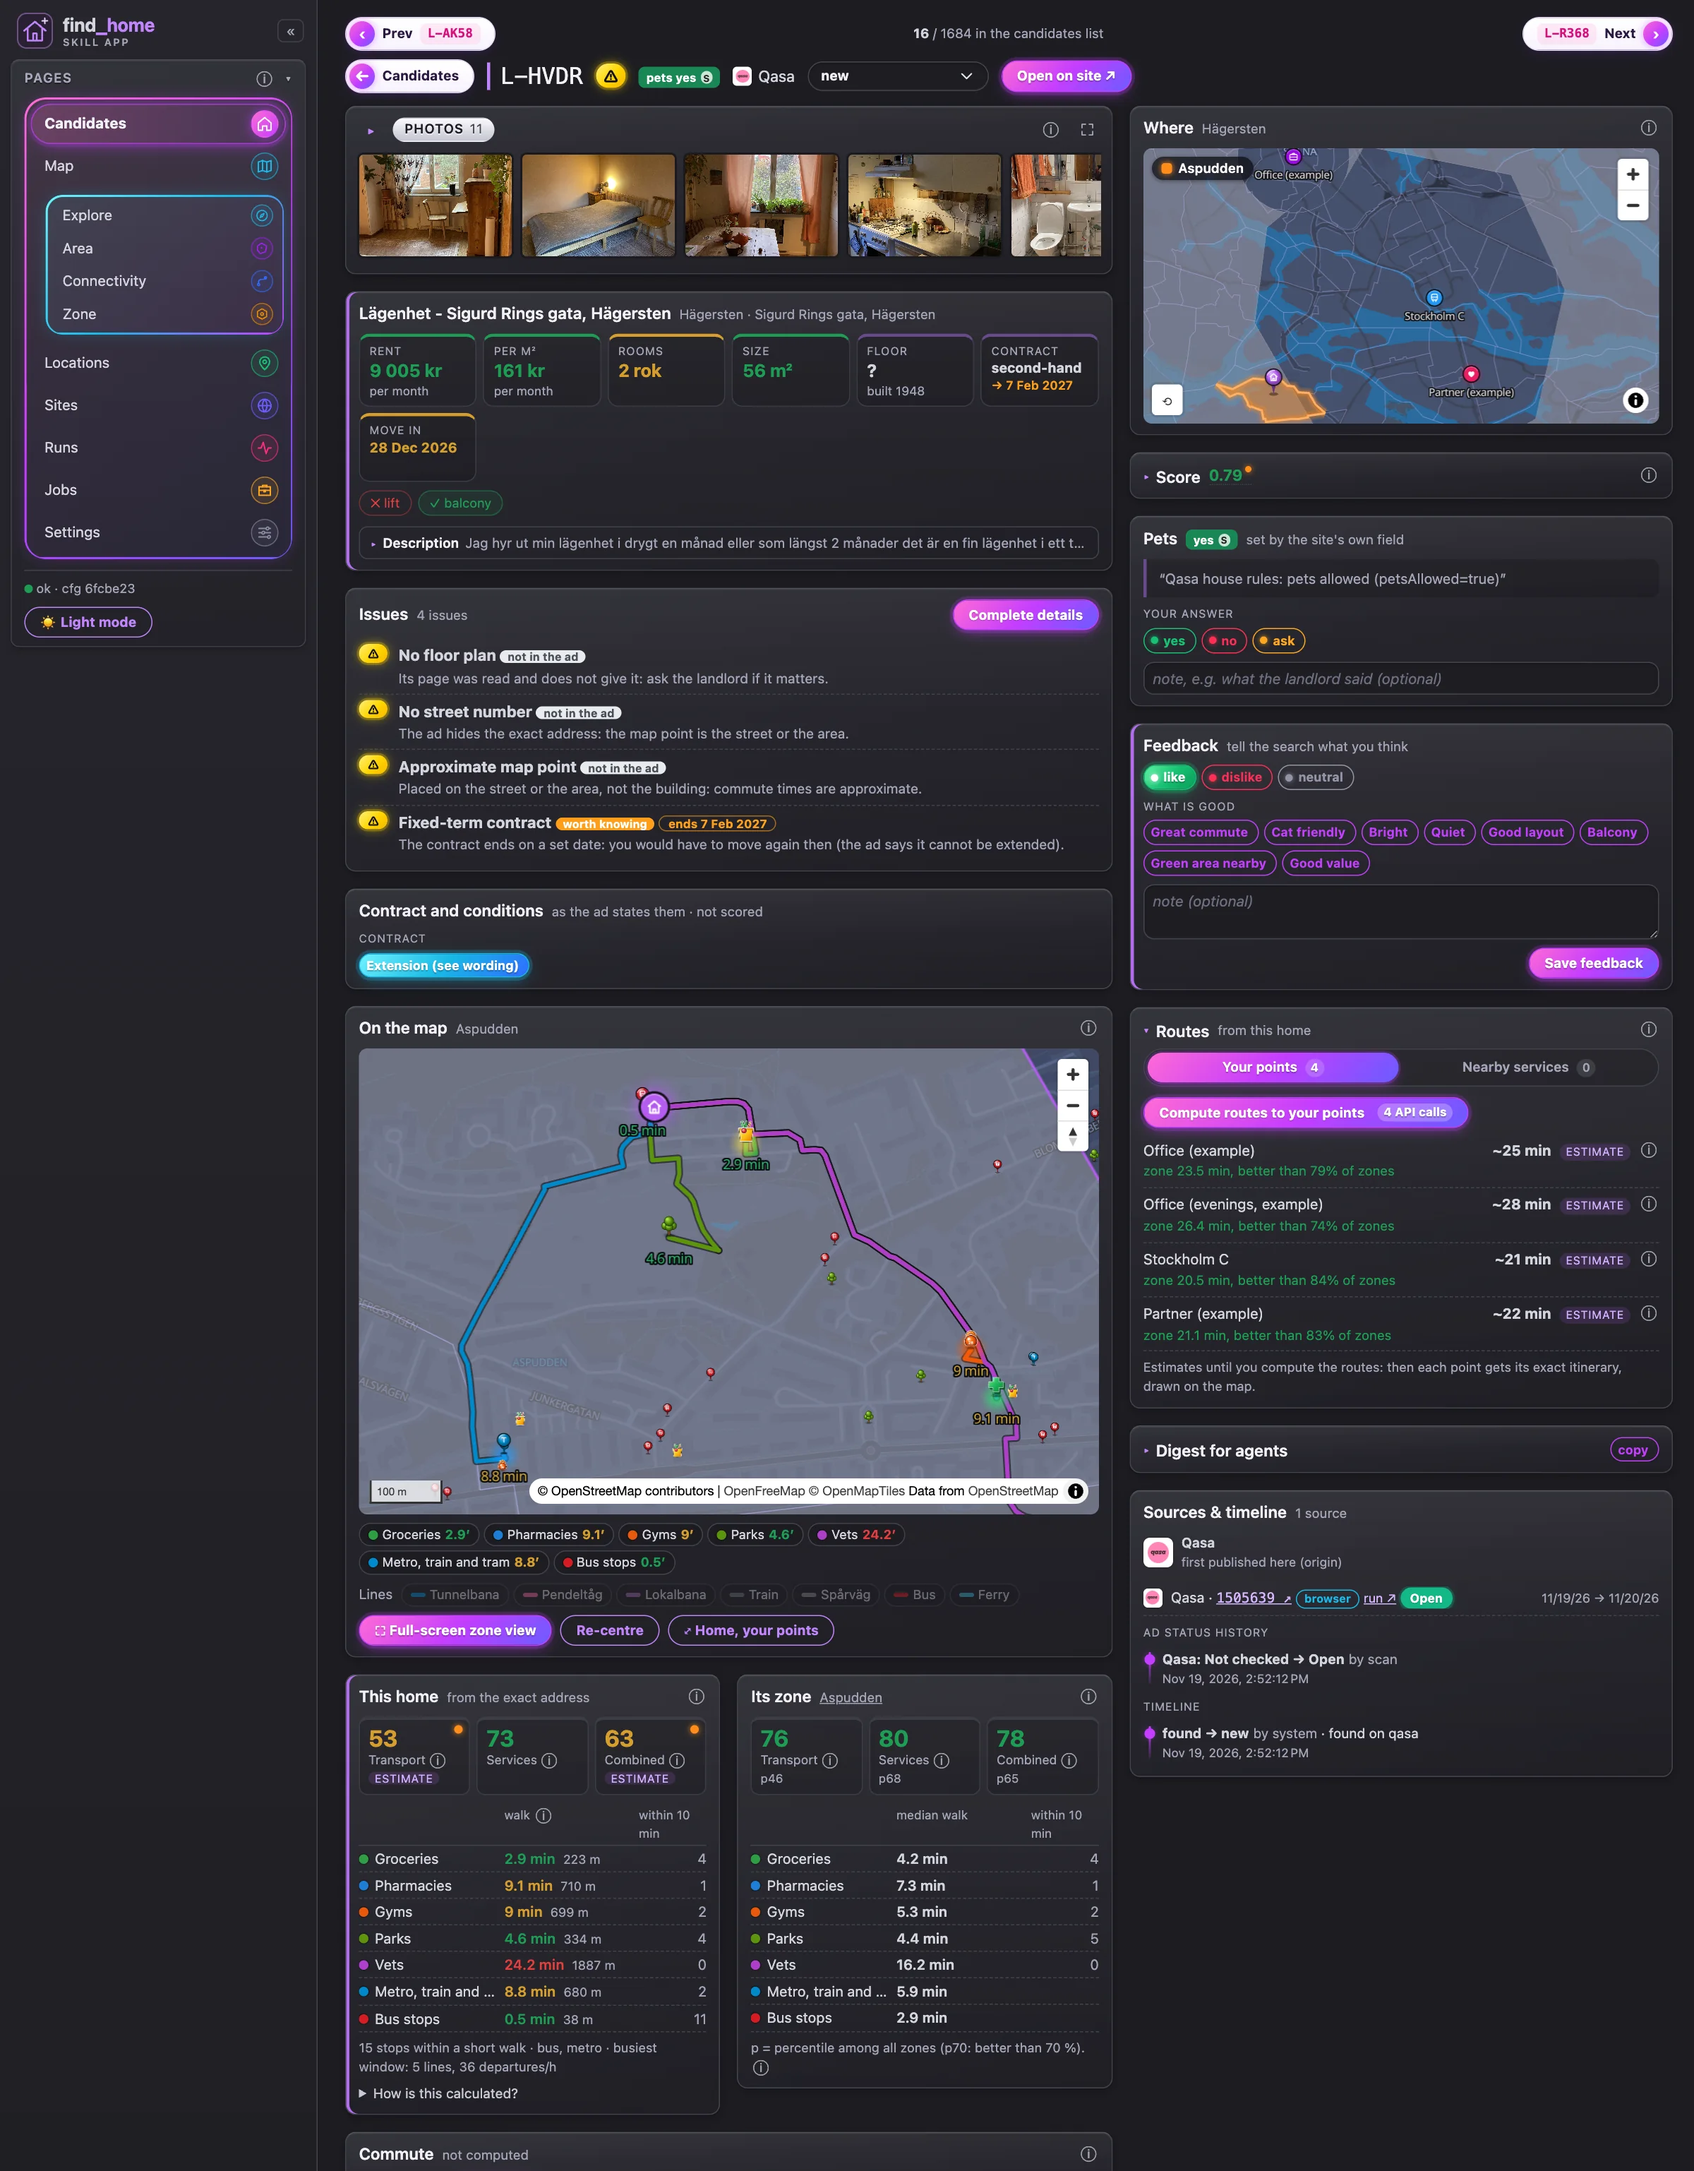
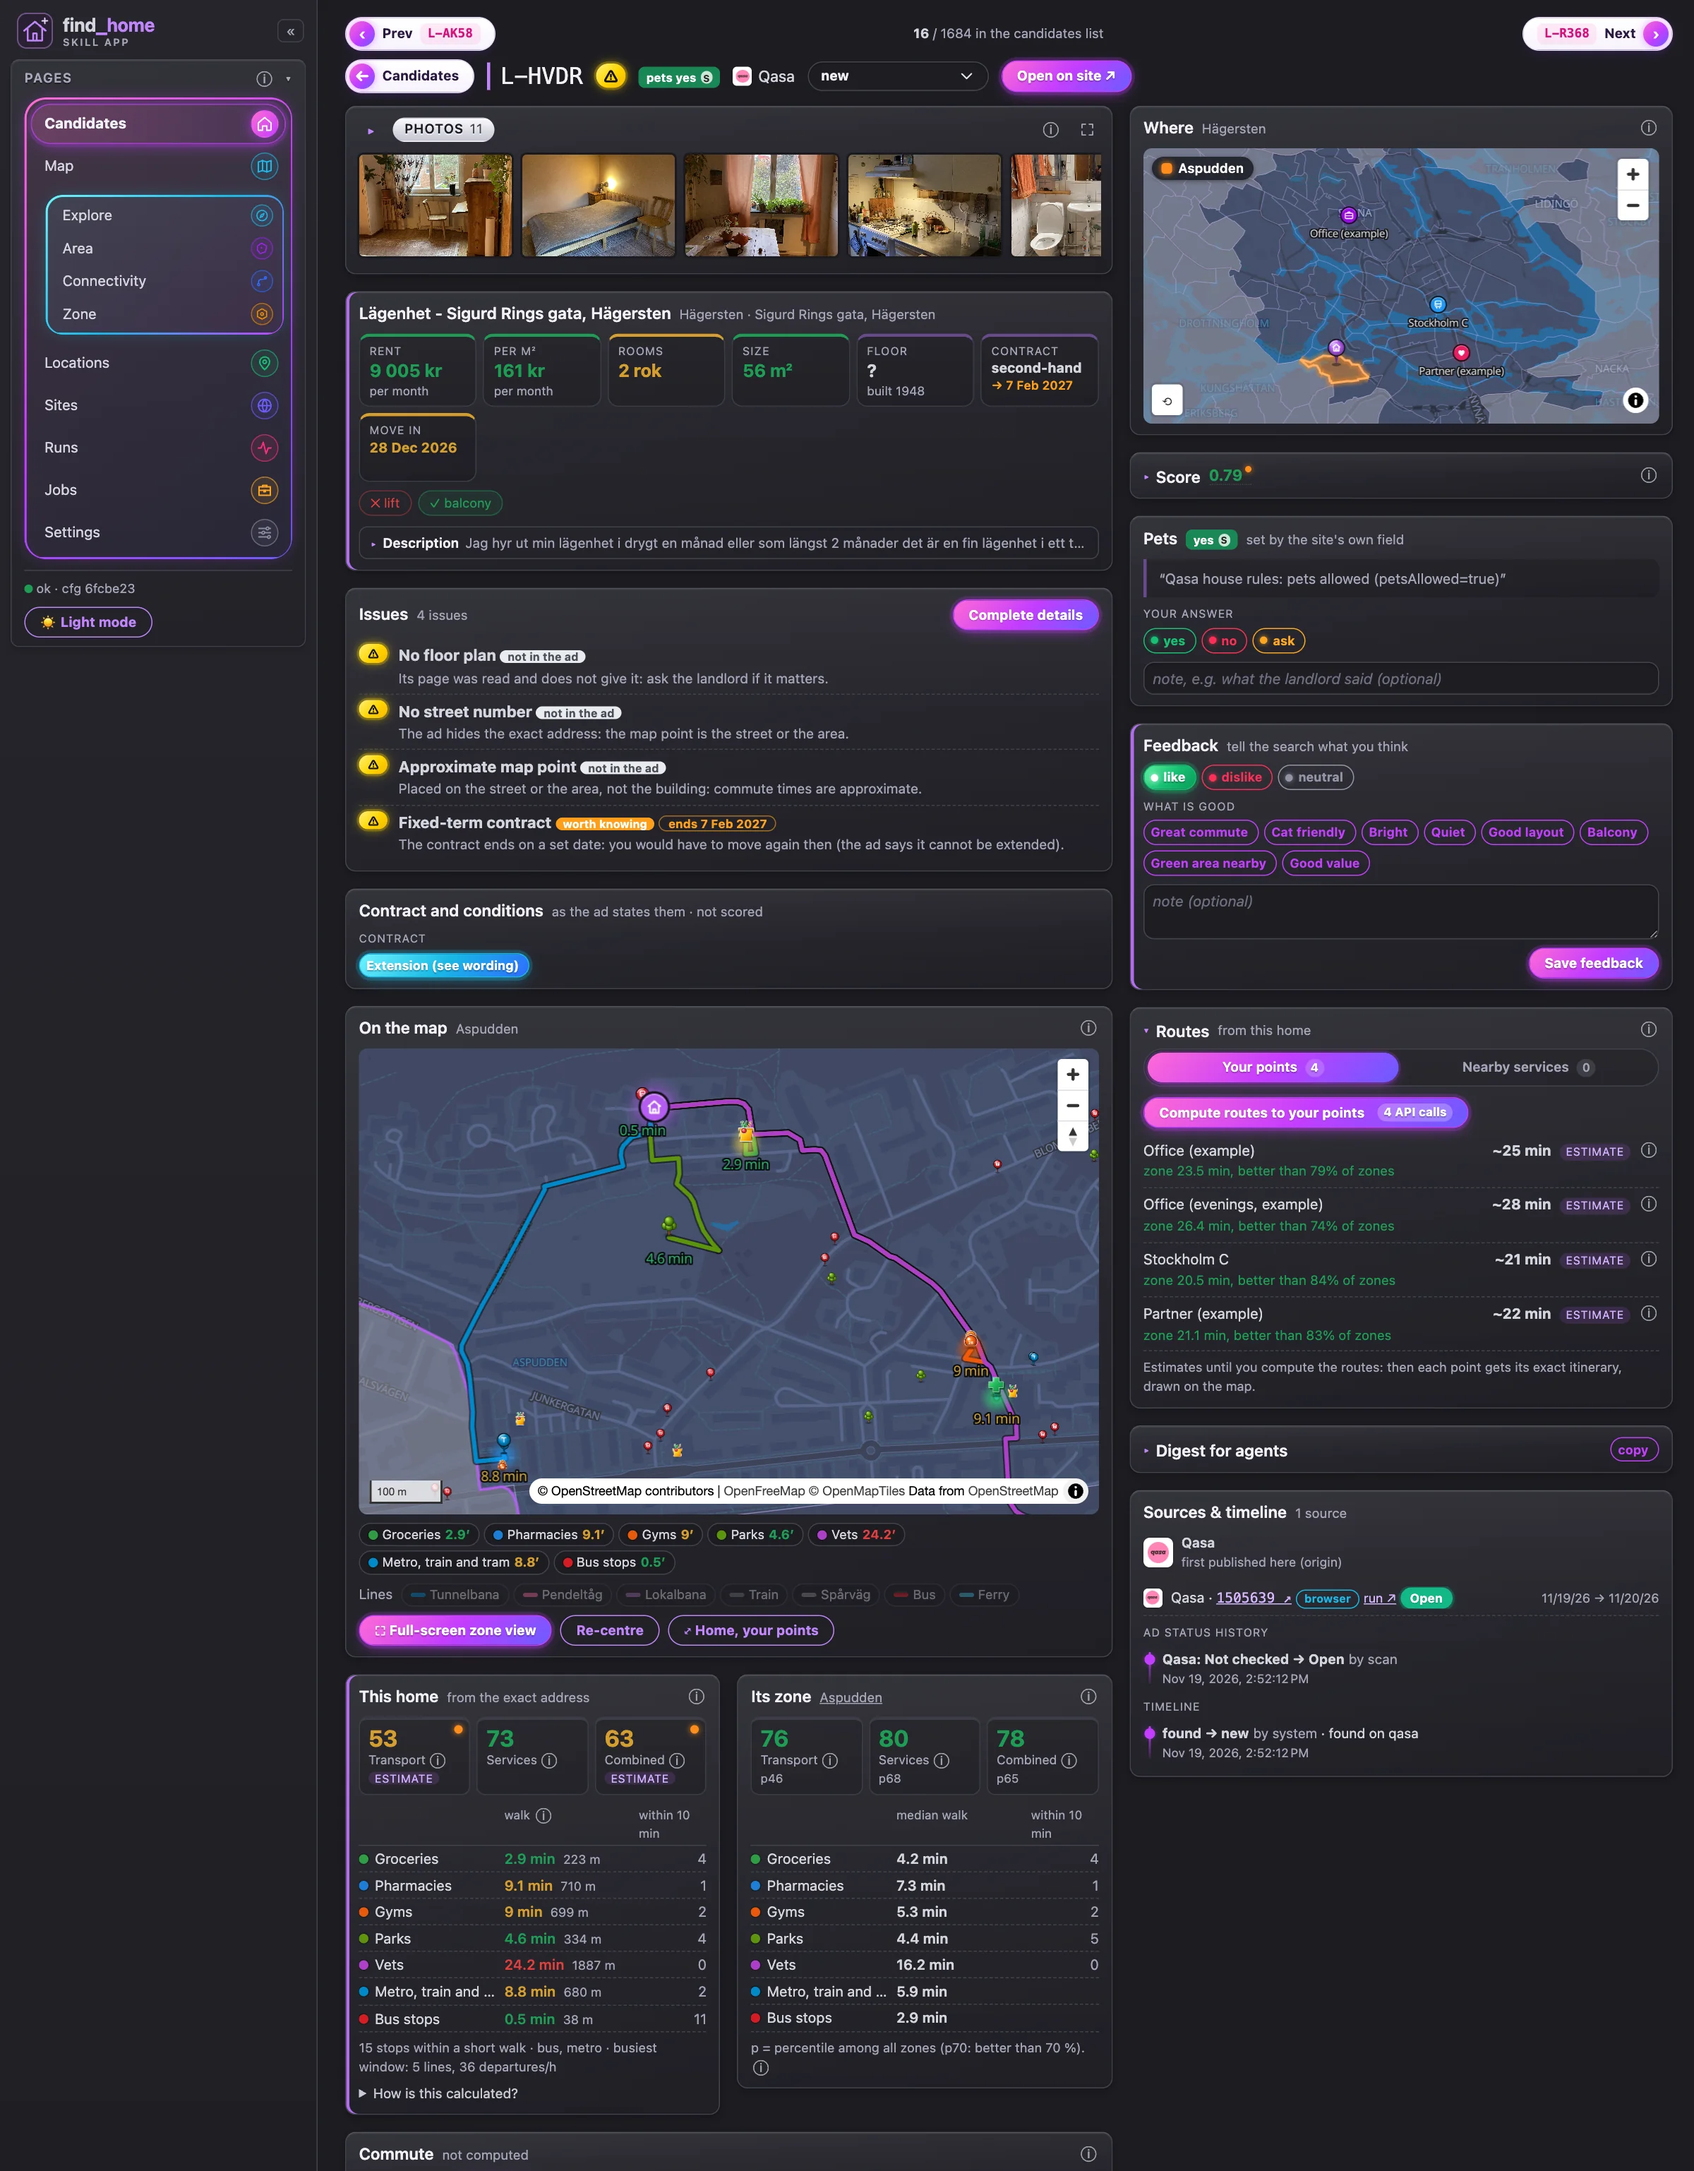
docs(readme): every zone coloured in Connectivity, the Reach search area in Area, the home card from a middle row

Changed region(s): [[0.1875, 0.4683, 0.6562, 0.718], [0.7188, 0.0624, 0.9688, 0.2185]]

diff --git a/README.md b/README.md
@@ -53,7 +53,8 @@ listings; the app stores everything, scores it, puts it on a map and gives you t
 
 The screenshots use public listing data from the rental sites. Your own places and search area are personal and
 never committed: in these images they come from the repo's example files (`Office (example)`, `Partner (example)`,
-a made-up search area), and the travel minutes to them are illustrative.
+a search area drawn from them), and the travel minutes to them, on the maps and in the routes, are
+illustrative.
 
 ### Candidates
 
@@ -112,20 +113,23 @@ Everything about one home, with the previous and next home of your list one key 
 
 ### Map: Area
 
-![The Area mode: a drawn search area made of a polygon and a circle, with the listings inside, near and outside it counted on the right.](docs/screenshots/area.webp)
+![The Area mode: a search area made of every zone within 25 minutes of your points by transit, with the listings inside, near and outside it counted on the right.](docs/screenshots/area.webp)
 
-Draw where you want to live. An area is made of weighted pieces: whole zones, a **reach** (the zones within N
-minutes of your points), brush strokes, lasso, circle or polygon shapes, and erasers. A buffer softens the edge.
-Homes inside score full marks for area, those just outside less, the rest are filtered out.
+Decide where you want to live from how long it takes to get to your places. The **Reach** tool selects every zone
+whose transit time to your points stays under a limit, for all of them weighted or for one, in every time window
+or one: here, the 95 zones within 25 minutes. Refine it with more weighted pieces: single zones, brush strokes,
+lasso, circle or polygon shapes, and erasers. A buffer softens the edge. Homes inside score full marks for area,
+those just outside less, the rest are filtered out.
 
 ### Map: Connectivity
 
-![The Connectivity mode: Stockholm's zones coloured by the transport index percentile, with the view options on the left.](docs/screenshots/connectivity.webp)
+![The Connectivity mode: every zone around Stockholm coloured by its transit minutes to your points, weighted, from green to red.](docs/screenshots/connectivity.webp)
 
-How well each neighbourhood is connected: the transit minutes from every zone to each of your points and their
-weighted mix, or the **transport index** (lines, frequency and stops within a short walk, by time of day) as a
-percentile. The matrix bubble shows how many routes are computed, failed or estimated, and what refreshing them
-would cost in API calls.
+How well each neighbourhood is connected to your life: the transit minutes from every zone to your points in their
+time windows, as their weighted mix or for one point at a time. Hover a zone for its minutes per point. The
+**transport index** view colours the zones by public transport quality instead (lines, frequency and stops within a
+short walk, by time of day). The matrix bubble shows how many routes are computed, failed or estimated, and what
+refreshing them would cost in API calls.
 
 ### Map: Zone
 

diff --git a/docs/screenshots/README.md b/docs/screenshots/README.md
@@ -9,8 +9,8 @@ These images capture the running Angular app at `http://localhost:4400/` (dark t
 | [tooltips.webp](tooltips.webp) | Candidates | The home card, the ad-freshness clock, the contract and the issues tooltips |
 | [listing.webp](listing.webp) | A listing | Photos, facts, issues, map with walks, this home against its zone, routes, score, sources |
 | [explore.webp](explore.webp) | Map → Explore | Houses by score, a pinned home in the Inspector, the Layers sheet |
-| [area.webp](area.webp) | Map → Area | A drawn search area and the listings inside it |
-| [connectivity.webp](connectivity.webp) | Map → Connectivity | Zones by transport index percentile |
+| [area.webp](area.webp) | Map → Area | A search area of the zones within 25 minutes (Reach), and the listings inside it |
+| [connectivity.webp](connectivity.webp) | Map → Connectivity | Every zone by its weighted minutes to the points |
 | [zone.webp](zone.webp) | Map → Zone | The 3D zone view focused on a home |
 | [locations.webp](locations.webp) | Locations (light) | Points, their maps, trips and time windows |
 | [sites.webp](sites.webp) | Sites | Website integrations and their scan methods |
@@ -25,9 +25,10 @@ chrome. Keep map attribution visible. Use public or fictional data only, followi
 - Listings are public ads from the rental sites.
 - Personal map points, commute minutes to them and drawn search areas never appear. These images replace them in
   the browser while capturing (nothing is saved): the points and their trips come from
-  [`config/locations.example.yaml`](../../config/locations.example.yaml), the search area is a made-up shape, the
-  point names in the connectivity matrix and house analyses are renamed to the example ones, and the travel
-  minutes to them are recomputed from their distance (illustrative).
+  [`config/locations.example.yaml`](../../config/locations.example.yaml), the commute matrix (every zone's minutes to
+  the example points) is computed from their distance with some spread, the search area is the Reach of those
+  minutes, the point names in the house analyses are renamed to the example ones and their minutes recomputed the
+  same way. All of these minutes are illustrative.
 - Settings shows a non-personal file (`zone.yaml`), never `profile.yaml`, `locations.yaml`, `search_area.yaml` or
   the `.env` files. No private notes, agent logs or score tooltips with personal targets.
 
